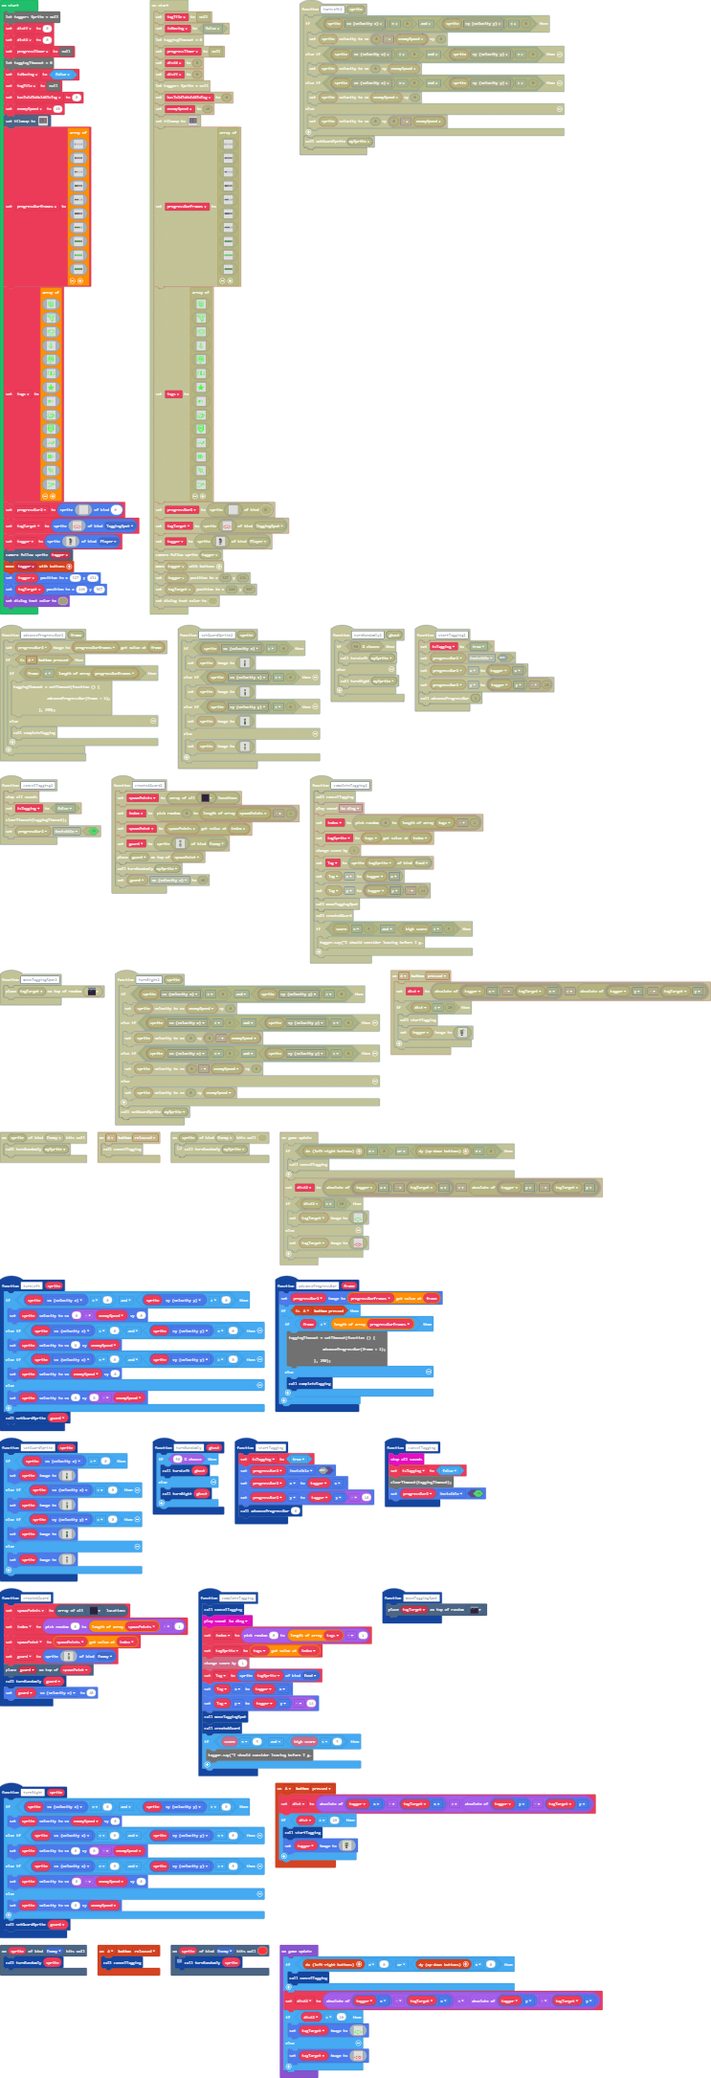
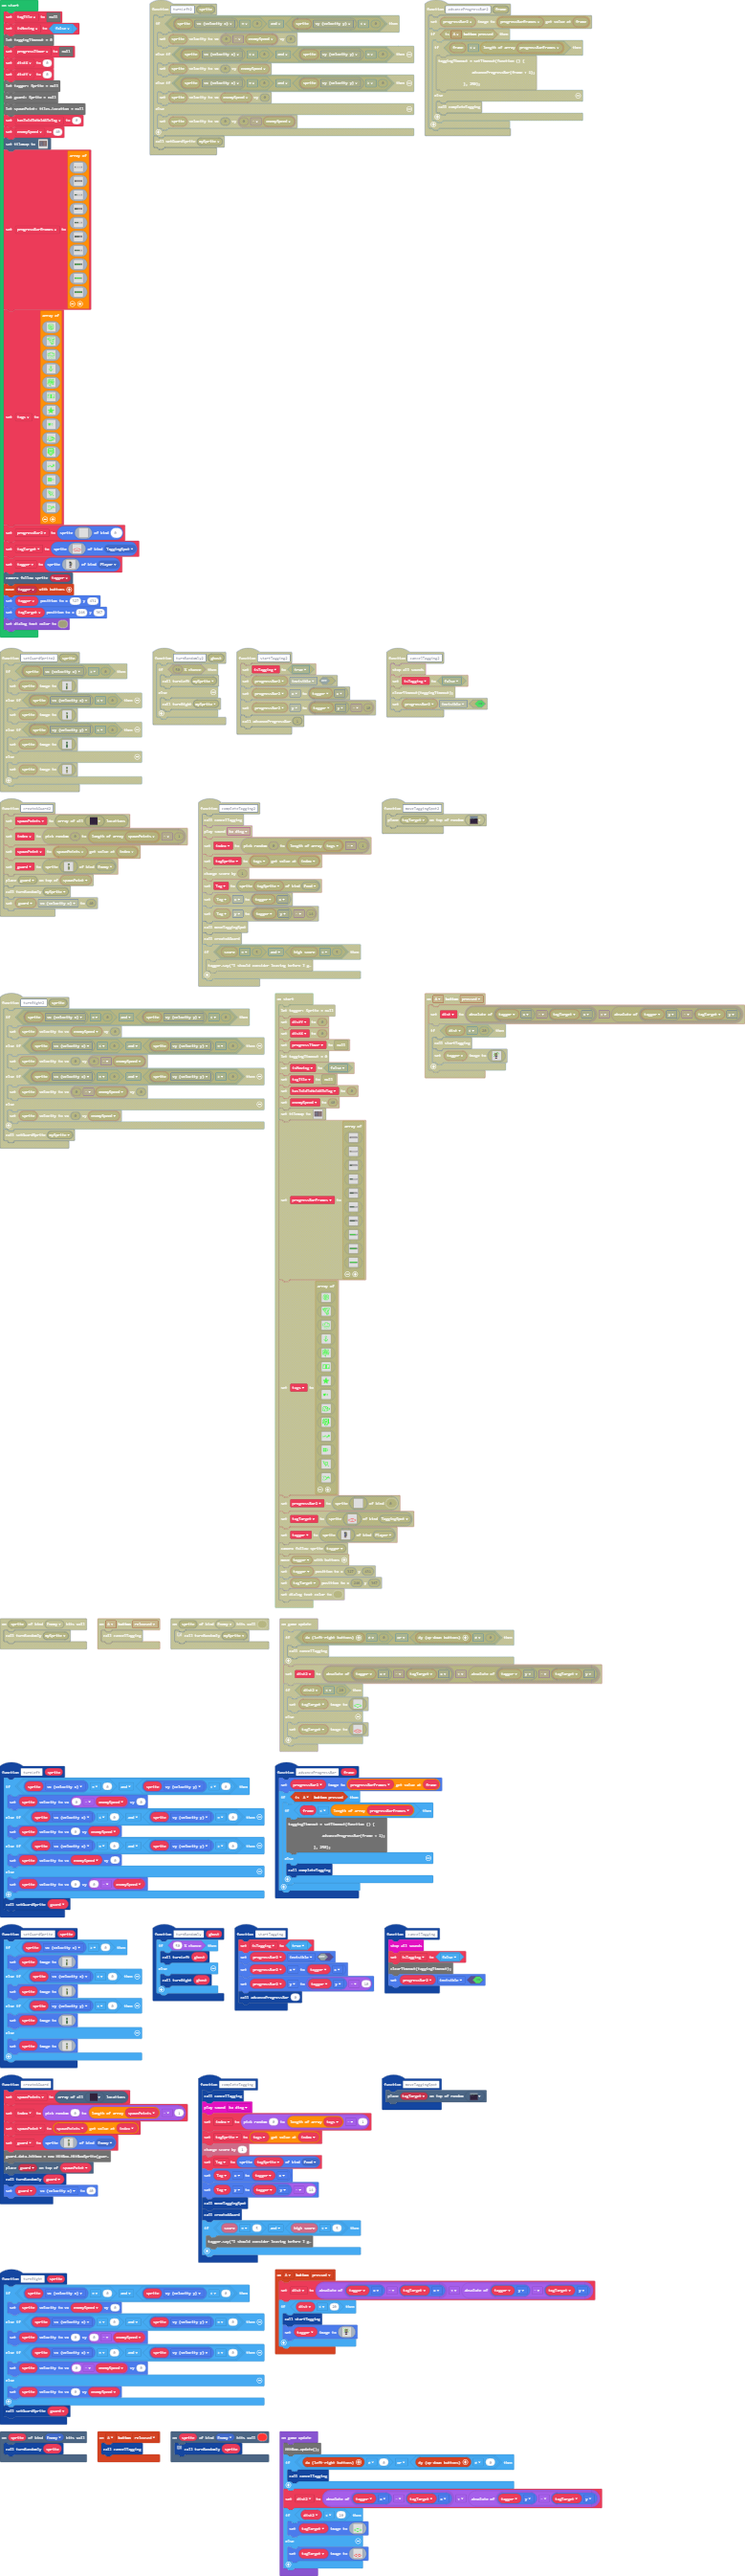
Adding proper hit detection for guards

diff --git a/hitbox.ts b/hitbox.ts
@@ -2,8 +2,34 @@
 
 namespace HitBox {
 
+    const DEBUG = true;
+
     const width = 64;
     const height = 64;
+
+    const HIT_CONE_LENGTH = 32;
+    const HIT_CONE_WIDTH = 32;
+
+    let hitTestDebug = sprites.create(img`
+        1 1 1 1 1 1 1 1 1 1 1 1 1 1 1 1
+        1 1 1 1 1 1 1 1 1 1 1 1 1 1 1 1
+        1 1 1 1 1 1 1 1 1 1 1 1 1 1 1 1
+        1 1 1 1 1 1 1 1 1 1 1 1 1 1 1 1
+        1 1 1 1 1 1 1 1 1 1 1 1 1 1 1 1
+        1 1 1 1 1 1 1 1 1 1 1 1 1 1 1 1
+        1 1 1 1 1 1 1 1 1 1 1 1 1 1 1 1
+        1 1 1 1 1 1 1 1 1 1 1 1 1 1 1 1
+        1 1 1 1 1 1 1 1 1 1 1 1 1 1 1 1
+        1 1 1 1 1 1 1 1 1 1 1 1 1 1 1 1
+        1 1 1 1 1 1 1 1 1 1 1 1 1 1 1 1
+        1 1 1 1 1 1 1 1 1 1 1 1 1 1 1 1
+        1 1 1 1 1 1 1 1 1 1 1 1 1 1 1 1
+        1 1 1 1 1 1 1 1 1 1 1 1 1 1 1 1
+        1 1 1 1 1 1 1 1 1 1 1 1 1 1 1 1
+        1 1 1 1 1 1 1 1 1 1 1 1 1 1 1 1
+    `, SpriteKind.HitBox)
+    hitTestDebug.setFlag(SpriteFlag.Invisible, false);
+    hitTestDebug.setFlag(SpriteFlag.Ghost, true);
 
     const hitboxImageBase: Image = img`
         . . . . . . . . . . . . . . . . . 4 4 4 4 4 4 4 4 4 4 4 4 4 4 4 4 4 4 4 4 4 4 4 4 4 4 4 4 4 4 . . . . . . . . . . . . . . . . .
@@ -77,6 +103,26 @@ namespace HitBox {
     transparentHitbox1.copyFrom(hitboxImageBase)
     transparentHitbox2.copyFrom(hitboxImageBase)
 
+    export interface Point2D {
+        x: number;
+        y: number;
+    }
+
+    export interface Polygon {
+        edges: Edge[]
+    }
+
+    export interface Edge {
+        p1: Point2D;
+        p2: Point2D;
+    }
+
+    function triangle(a: Point2D, b: Point2D, c: Point2D): Polygon {
+        return {
+            edges: [{ p1: a, p2: b }, { p1: b, p2: c }, { p1: c, p2: a }]
+        }
+    }
+
 
     export class HitBoxSprite {
 
@@ -87,10 +133,11 @@ namespace HitBox {
 
         constructor(private readonly target: Sprite, spawnPoint: tiles.Location) {
             this.sprite = sprites.create(HitBox.hitboxImage, SpriteKind.HitBox);
+            //this.sprite.l
             HitBoxSprite.hitboxes.push(this);
             this.sprite.setFlag(SpriteFlag.Ghost, true)
             target.data['hitbox'] = this;
-            this.sprite.follow(target)
+            
             tiles.placeOnTile(this.sprite, spawnPoint)
         }
 
@@ -105,13 +152,159 @@ namespace HitBox {
             } else {
                 this.rotation = 180;
             }
+            
+            const hitboxImage = (this.rotation !== 0) ?
+                getCurrentHitbox().rotated(this.rotation) :
+                getCurrentHitbox();
 
-            if (this.rotation !== 0) {
-                this.sprite.setImage(getCurrentHitbox().rotated(this.rotation));
-            } else {
-                this.sprite.setImage(getCurrentHitbox());
+
+
+
+            let cone = triangle(
+                { x: this.target.x + (this.target.width / 2), y: this.target.y + (this.target.height / 2) },
+                { x: this.target.x + (this.target.width / 2) - (HIT_CONE_WIDTH / 2), y: this.target.y + (this.target.height / 2) - HIT_CONE_LENGTH  },
+                { x: this.target.x + (this.target.width / 2) + (HIT_CONE_WIDTH / 2), y: this.target.y + (this.target.height / 2) - HIT_CONE_LENGTH }
+            );
+
+            let rotatedCone = rotatePoly(cone, cone.edges[0].p1, this.rotation);
+            
+            const isPlayerHit = polyIntersect(rotatedCone, getRect(tagger));
+
+            if(DEBUG) {
+                let center = { x: cone.edges[0].p1.x - (hitboxImage.width / 2), y: cone.edges[0].p1.y - (hitboxImage.height / 2) };
+                let zeroedCone = centerPolyAt(rotatedCone, center);
+                drawPolyToImage(zeroedCone, hitboxImage, 1);
+
+                if(isPlayerHit) {
+                    hitTestDebug.setFlag(SpriteFlag.Invisible, false);
+                }
+
+            }
+            
+            this.sprite.setImage(hitboxImage);
+            this.sprite.setPosition(this.target.x, this.target.y);
+
+            if(isPlayerHit) {
+                info.changeLifeBy(-1);
+            }
+            
+        }
+    }
+
+    function drawPolyToImage(poly: Polygon, image: Image, color: number): void {
+        for(let edge of poly.edges) {
+            image.drawLine(edge.p1.x, edge.p1.y, edge.p2.x, edge.p2.y, color);
+        }
+    }
+
+    function centerPolyAt(poly: Polygon, center: Point2D): Polygon {
+
+        const newEdges: Edge[] = [];
+
+        for(let edge of poly.edges) {
+            newEdges.push({ p1: zeroPointAt(edge.p1, center), p2: zeroPointAt(edge.p2, center) });
+        }
+
+        return { edges: newEdges };
+
+    }
+
+    function zeroPointAt(point: Point2D, center: Point2D): Point2D {
+        return { x: point.x - center.x, y: point.y - center.y };
+    }
+
+    function rotatePoly(poly: Polygon, center: Point2D, angle: number) {
+        const newEdges: Edge[] = [];
+
+        for(let edge of poly.edges) {
+            newEdges.push({ p1: rotatePoint(edge.p1, center, angle), p2: rotatePoint(edge.p2, center, angle) });
+        }
+
+        return { edges: newEdges };
+    }
+
+    function getRect(sprite: Sprite): Polygon {
+        return {
+            edges: [
+                { p1: { x: sprite.x, y: sprite.y }, p2: { x: sprite.x + sprite.width, y: sprite.y } },
+                { p1: { x: sprite.x + sprite.width, y: sprite.y }, p2: { x: sprite.x + sprite.width, y: sprite.y + sprite.height } },
+                { p1: { x: sprite.x + sprite.width, y: sprite.y + sprite.height }, p2: { x: sprite.x, y: sprite.y + sprite.height } },
+                { p1: { x: sprite.x , y: sprite.y + sprite.height }, p2: { x: sprite.x, y: sprite.y  } },
+            ]
+        }
+    }
+
+    function polyIntersect(poly1: Polygon, poly2: Polygon) {
+        for(let poly1Edge of poly1.edges) {
+            for(let poly2Edge of poly2.edges) {
+                if(linesIntersect(poly1Edge, poly2Edge)) {
+                    return true;
+                }
             }
         }
+        return false;
+    }
+
+    function linesIntersect(e1: Edge, e2: Edge) {
+        
+        let A1 = e1.p2.y - e1.p1.y;
+        let B1 = e1.p1.x - e1.p2.x;
+        let C1 = A1 * e1.p1.x + B1 * e1.p1.y;
+
+        let A2 = e2.p2.y - e2.p1.y;
+        let B2 = e2.p1.x - e2.p2.x;
+        let C2 = A2 * e2.p1.x + B2 * e2.p1.y;
+
+        let determinate = A1 * B2 - A2 * B1;
+
+        if (determinate != 0) {
+            let x = (B2 * C1 - B1 * C2) / determinate;
+            let y = (A1 * C2 - A2 * C1) / determinate;
+
+            let intersect = { x, y };
+
+            if (inBoundedBox(e1.p1, e1.p2, intersect) &&
+                inBoundedBox(e2.p1, e2.p2, intersect))
+                return true;
+            else
+                return false;
+        }
+        else //lines are parrallel
+            return false;
+    }
+
+    function inBoundedBox(p1: Point2D, p2: Point2D, p3: Point2D) {
+        let betweenYs;
+        let betweenXs;
+
+        if (p1.y < p2.y)
+            betweenYs = (p1.y <= p3.y &&
+                p2.y >= p3.y);
+        else
+            betweenYs = (p1.y >= p3.y &&
+                p2.y <= p3.y);
+
+        if (p1.x < p2.x)
+            betweenXs = (p1.x <= p3.x &&
+                p2.x >= p3.x);
+        else
+            betweenXs = (p1.x >= p3.x &&
+                p2.x <= p3.x);
+
+        return (betweenYs && betweenXs);
+    }
+
+    function rotatePoint(point: Point2D, center: Point2D, angle: number): Point2D {
+            let s = Math.sin(angle * (Math.PI/180.0));
+            let c = Math.cos(angle * (Math.PI/180.0));
+
+            const centeredx = point.x - center.x;
+            const centeredy = point.y - center.y;
+
+            let xnew = (centeredx * c) - (centeredy * s);
+            let ynew = (centeredx * s) + (centeredy * c);
+
+            return { x: xnew + center.x, y: ynew + center.y };
     }
 
 
@@ -133,7 +326,12 @@ namespace HitBox {
     export let hitboxImage: Image = image.create(width, height);
     hitboxImage.copyFrom(hitboxImageBase)
     let hitboxState = 0;
+
     export function update() {
+        if(DEBUG) {
+            hitTestDebug.setPosition(tagger.x, tagger.y);
+            hitTestDebug.setFlag(SpriteFlag.Invisible, true);
+        }
         if (hitboxState == 1) {
             hitboxState = 0;
 

diff --git a/main.ts b/main.ts
@@ -471,7 +471,7 @@ function turnLeft (sprite: Sprite) {
     } else {
         sprite.setVelocity(0, 0 - enemySpeed)
     }
-    setGuardSprite(guard)
+    setGuardSprite(sprite)
 }
 function advanceProgressBar (frame: number) {
     progressBar2.setImage(progressBarFrames[frame])
@@ -628,7 +628,7 @@ function createAGuard () {
     spawnPoints = tiles.getTilesByType(myTiles.tile17)
     index = Math.randomRange(0, spawnPoints.length - 1)
     spawnPoint = spawnPoints[index]
-    guard = sprites.create(img`
+    const guard = sprites.create(img`
         . . . . . . . . . . . . . . . .
         . . . . . . . . . . . . . . . .
         . . . . . . 3 3 3 3 . . . . . .
@@ -706,7 +706,7 @@ function turnRight (sprite: Sprite) {
     } else {
         sprite.setVelocity(0, enemySpeed)
     }
-    setGuardSprite(guard)
+    setGuardSprite(sprite)
 }
 controller.right.onEvent(ControllerButtonEvent.Pressed, function () {
     tagger.setImage(img`
@@ -770,7 +770,6 @@ let spawnPoint: tiles.Location = null
 let index = 0
 let spawnPoints: tiles.Location[] = []
 let isTagging = false
-let guard: Sprite = null
 let tagTarget: Sprite = null
 let progressBar2: Sprite = null
 let tags: Image[] = []
